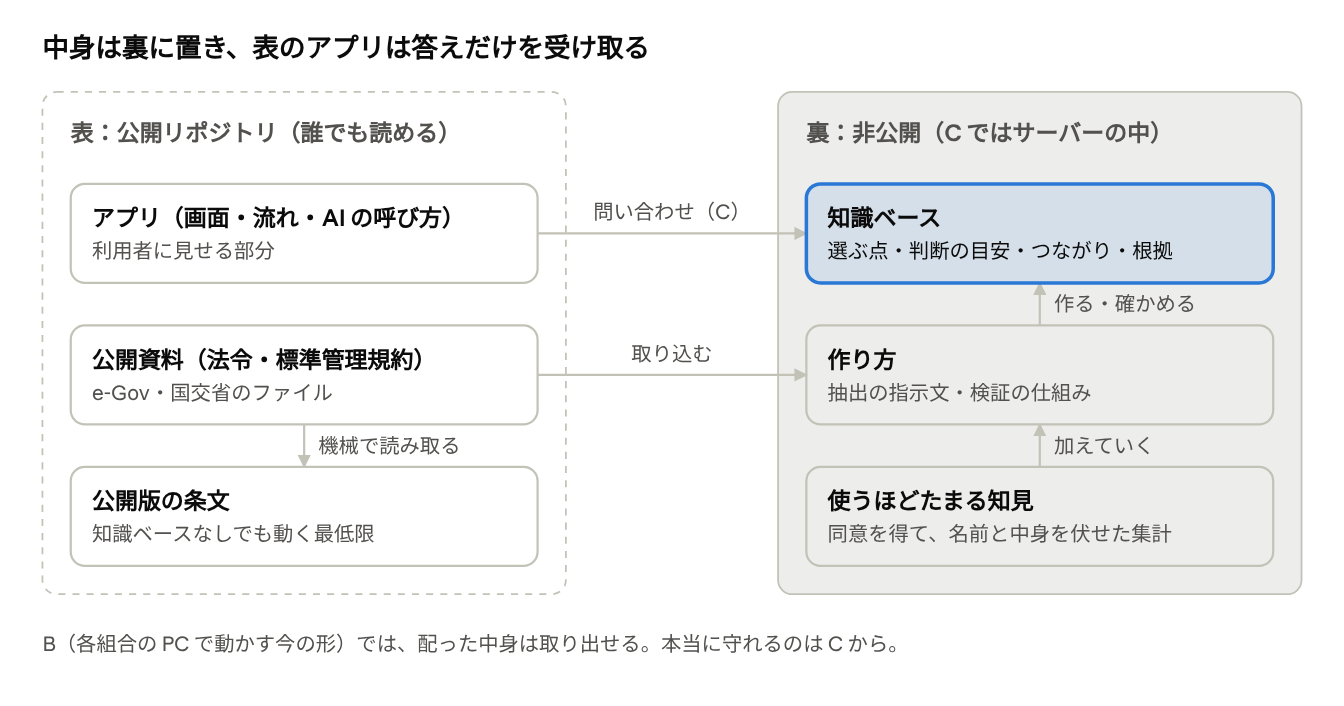
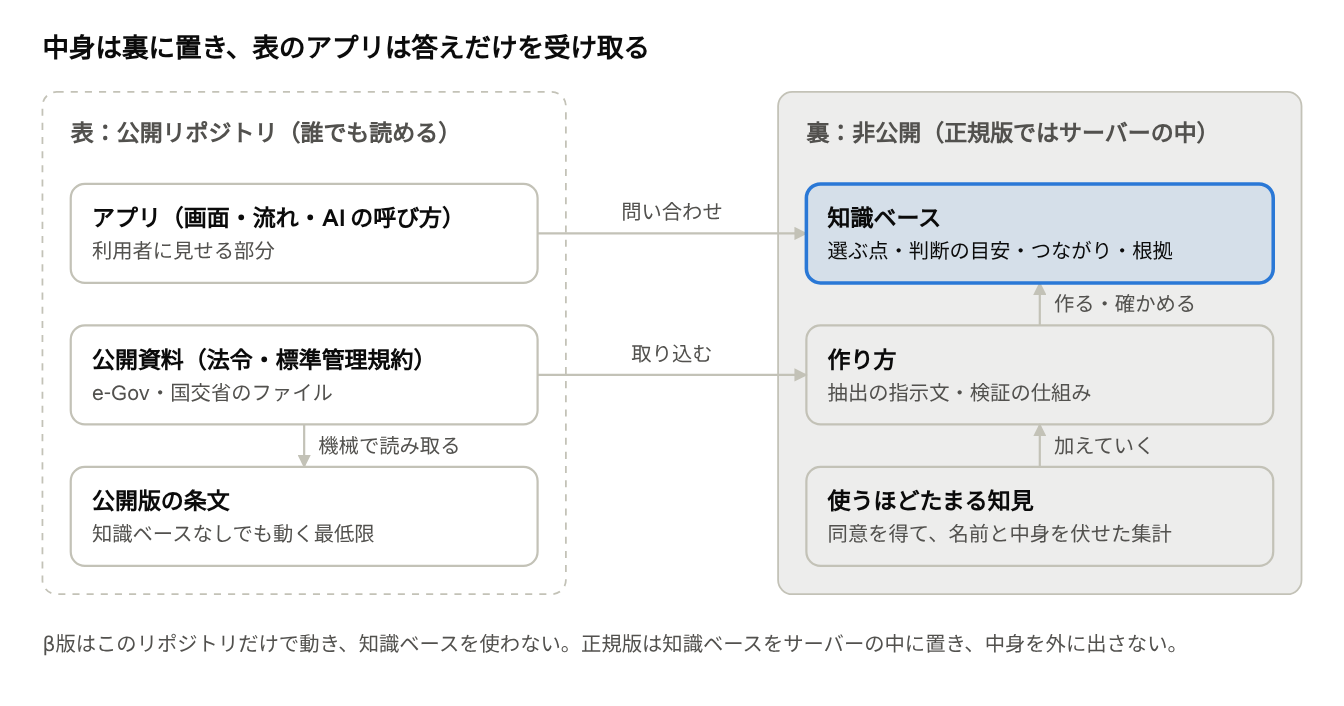
README：画面を縦に1枚ずつ並べ、説明を添える。ととのう規約 データベースの図から、会話の中の呼び名（B・C）を外し、β版・正規版の言葉にする
Claude-Session: https://claude.ai/code/session_01KMDftsrbgp6KUVXbedew97

Changed region(s): [[0.0312, 0.8725, 0.875, 0.9348], [0.6875, 0.1558, 0.9062, 0.2181], [0.4375, 0.2805, 0.5625, 0.3116]]

diff --git a/README.md b/README.md
@@ -28,9 +28,17 @@
 - **相談する**：「規約変更の総会で何人の賛成が要る？」のような質問や、住民向けのニュース原稿・議事録の確認に、条文を読んだうえで根拠付きで答えます。定足数・賛成数はプログラムが計算し、人名は伏せて AI に送ります
 - 作者自身がマンションの規約見直し委員として、実物の規約で使いながら作りました（実物の規約はこのリポジトリに入れていません）
 
-| 理事会の検討資料 | 新旧対照表 | 相談する |
-| --- | --- | --- |
-| ![理事会で検討する画面](docs/readme/02_board.png) | ![新旧対照表](docs/readme/03_taisho.png) | ![相談の答え](docs/readme/04_consult.png) |
+**理事会で検討する**：改定案を3段に分けた検討資料と、議題ごとの判断。判断に合わせて、対象の条だけを作り直す
+
+![理事会で検討する画面](docs/readme/02_board.png)
+
+**新旧対照表**：改定する条を、今の規約と並べて見比べる。印刷して会議で使える
+
+![新旧対照表](docs/readme/03_taisho.png)
+
+**相談する**：質問に、条文を読んだうえで根拠付きで答える。賛成の数などはプログラムが計算する
+
+![相談の答え](docs/readme/04_consult.png)
 
 画面はすべて架空のサンプルです。画面を直したときは `node docs/readme/make_shots.js` で撮り直せます。
 
